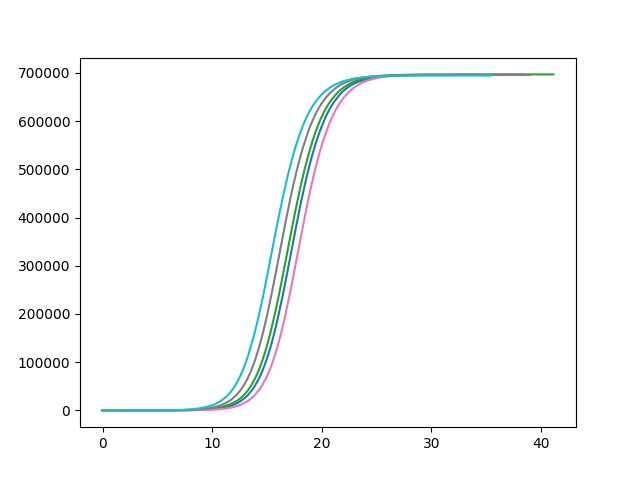
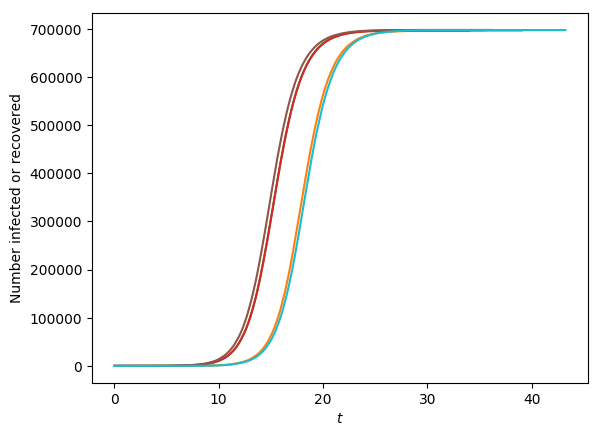
Add axis labels and cooperative SIR figure

diff --git a/docs/paper/paper.md b/docs/paper/paper.md
@@ -130,9 +130,13 @@ t2, S2, I2, R2 = EoN.Gillespie_SIR(G, tau, gamma, rho=rho)
 
 plt.plot(t1, I1, label = 'fast_SIR')
 plt.plot(t2, I2, label = 'Gillespie_SIR')
+plt.xlabel('$t$')
+plt.ylabel('Number infected')
 plt.legend()
 plt.show()
 ```
+
+This produces
 
 ![](SIR_sims.png)    
     
@@ -163,9 +167,15 @@ t2, S2, I2 = EoN.Gillespie_SIS(G, tau, gamma, rho=rho, tmax = 30)
 
 plt.plot(t1, I1, label = 'fast_SIS')
 plt.plot(t2, I2, label = 'Gillespie_SIS')
+plt.xlabel('$t$')
+plt.ylabel('Number infected')
 plt.legend()
 plt.show()
 ```
+
+This produces
+
+![](SIS_sims.png)
 
 We now consider an SIR disease spreading with non-Markovian dynamics.  We assume
 that the infection duration is gamma distributed, but the transmission rate is
@@ -193,12 +203,23 @@ G = nx.fast_gnp_random_graph(N, kave/(N-1)) #Erdős-Rényi graph
 tau = 0.3
 
 for cntr in range(10):
+    print(cntr)
     t, S, I, R = EoN.fast_nonMarkov_SIR(G, trans_time_fxn = trans_time_fxn,
                         rec_time_fxn = rec_time_fxn_gamma, trans_time_args = (tau,))
-    plt.plot(t, R)
 
+    #To reduce file size and make plotting faster, we'll just plot 1000
+    #data points.  It's not really needed here, but this demonstrates
+    #one of the available tools in EoN.
+
+    subsampled_ts = np.linspace(t[0], t[-1], 1000)
+    subI, subR = EoN.subsample(subsampled_ts, t, I, R) 
+    plt.plot(t, I+R)
+
+plt.xlabel('$t$')
+plt.ylabel('Number infected or recovered')
 plt.show()                                                            
 ```    
+This produces
 
 ![](nonMarkov.png)
 
@@ -243,10 +264,14 @@ t, S, I = EoN.SIS_homogeneous_pairwise(S0, I0, SI0, SS0, kave, tau, gamma,
                             tmax=10)
 plt.plot(t, S, label = 'S')
 plt.plot(t, I, label = 'I')
+plt.xlabel('$t$')
+plt.ylabel('Predicted numbers')
 plt.legend()
 plt.show()
 ```
-This produces ![](SIS_pairwise.png)
+This produces 
+
+![](SIS_pairwise.png)
 
 For ease of comparison with simulation, and consistency with existing literature,
 the output of the model should be interpreted in terms of an expected number of individuals
@@ -297,11 +322,15 @@ t, S, I, R = EoN.EBCM(N, psi, psiPrime, tau, gamma, phiS0, tmax = 10)
 plt.plot(t, S, label = 'S')
 plt.plot(t, I, label = 'I')
 plt.plot(t, R, label = 'R')
+plt.xlabel('$t$')
+plt.ylabel('Predicted proportions')
 plt.legend()
 plt.show()
 ```
 
-This produces ![](SIR_EBCM.png).
+This produces 
+
+![](SIR_EBCM.png).
 
 To be consistent with the other differential equations models, this EBCM implementation
 returns the expected *number* in each status, rather than the expected proportion.
@@ -435,11 +464,15 @@ plt.plot(t, S, label = 'Susceptible')
 plt.plot(t, E, label = 'Exposed')
 plt.plot(t, I, label = 'Infected')
 plt.plot(t, R, label = 'Recovered')
+plt.xlabel('$t$')
+plt.ylabel('Simulated numbers')
 plt.legend()
 plt.show()
 ```
 
-This produces ![](SEIR.png)
+This produces 
+
+![](SEIR.png)
     
 Now we show two cooperative SIR diseases.  In isolation, each of these diseases
 would be unable to start an epidemic.  However, together, they can, and depending
@@ -456,8 +489,6 @@ import matplotlib.pyplot as plt
 
 N = 1000000
 G = nx.fast_gnp_random_graph(N, 5./(N-1))
-
-print('got G')
 
 #In the below:
 #'SS' means an individual susceptible to both diseases
@@ -508,20 +539,20 @@ IC = defaultdict(lambda: 'SS')
 for individual in range(initial_size):
     IC[individual] = 'II'
 
-print('got IC')
-
 t, SS, SI, SR, IS, II, IR, RS, RI, RR = EoN.Gillespie_simple_contagion(G, H, J, IC, return_statuses,
                                         tmax = float('Inf'))
 
 plt.semilogy(t, IS+II+IR, '-.', label = 'Infected with disease 1')
 plt.semilogy(t, SI+II+RI, '-.', label = 'Infected with disease 2')
 
+plt.xlabel('$t$')
+plt.ylabel('Number infected')
 plt.legend()
 plt.show()
 ```
+This produces
 
-**still need to do this & remove print statements**
-![]()
+![](coop.png)
 
 ### Complex contagions
 
@@ -621,10 +652,16 @@ for rho in np.linspace(3./80, 7./80, 8):   #8 values from 3/80 to 7/80.
                             
     plt.plot(t, I)
     
+plt.xlabel('$t$')
+plt.ylabel('Number infected')
 plt.show()
 ```
 
-We get ![](cascades.png), which shows that if the initial proportion "infected"
+We get 
+
+![](cascades.png), 
+
+which shows that if the initial proportion "infected"
 is small enough the final size is comparable to the initial size.  However
 once the initial proportion exceeds a threshold, a global cascade occurs and 
 infects almost every individual.
@@ -689,7 +726,9 @@ sim = EoN.Gillespie_SIR(G, 1, 1, return_full_data=True)
 sim.display(time = 1, **nx_kwargs)
 plt.show()
 ```
-This produces a snapshot at time 1: ![](karate_club.png).
+This produces a snapshot at time 1: 
+
+![](karate_club.png).
 
 
 
@@ -703,6 +742,7 @@ ax = fig.add_subplot(111)
 nx.draw(T, Tpos, ax=ax, node_size = 200, with_labels=True)
 plt.show()
 ```
+This plots the transmission tree:
 
 ![](karate_club_transmission_tree.png).
 
@@ -769,6 +809,8 @@ sim.add_timeseries(new_timeseries, label = 'Simulation',
 sim.display(time=6, node_size = 4, ts_plots=[['Inf'], ['Sus+Vac', 'Inf+Rec']])
 plt.show()
 ```
+This plots the simulation at time 6.
+
 ![](SIRV_display.png)
 
 We can also animate it
@@ -779,6 +821,14 @@ ani.save('SIRV_animate.mp4', fps=5, extra_args=['-vcodec', 'libx264'])
 ```
 
 ![](SIRV_animate.gif)
+
+## Discussion
+
+EoN provides a number of tools for studying infectious processes spreading in
+contact networks.  The examples given here are intended to demonstrate the
+range of EoN, but they represent only a fraction of the possibilities.
+
+Full documentation is available at https://epidemicsonnetworks.readthedocs.io/en/latest/
 
 # Dependencies:
 
